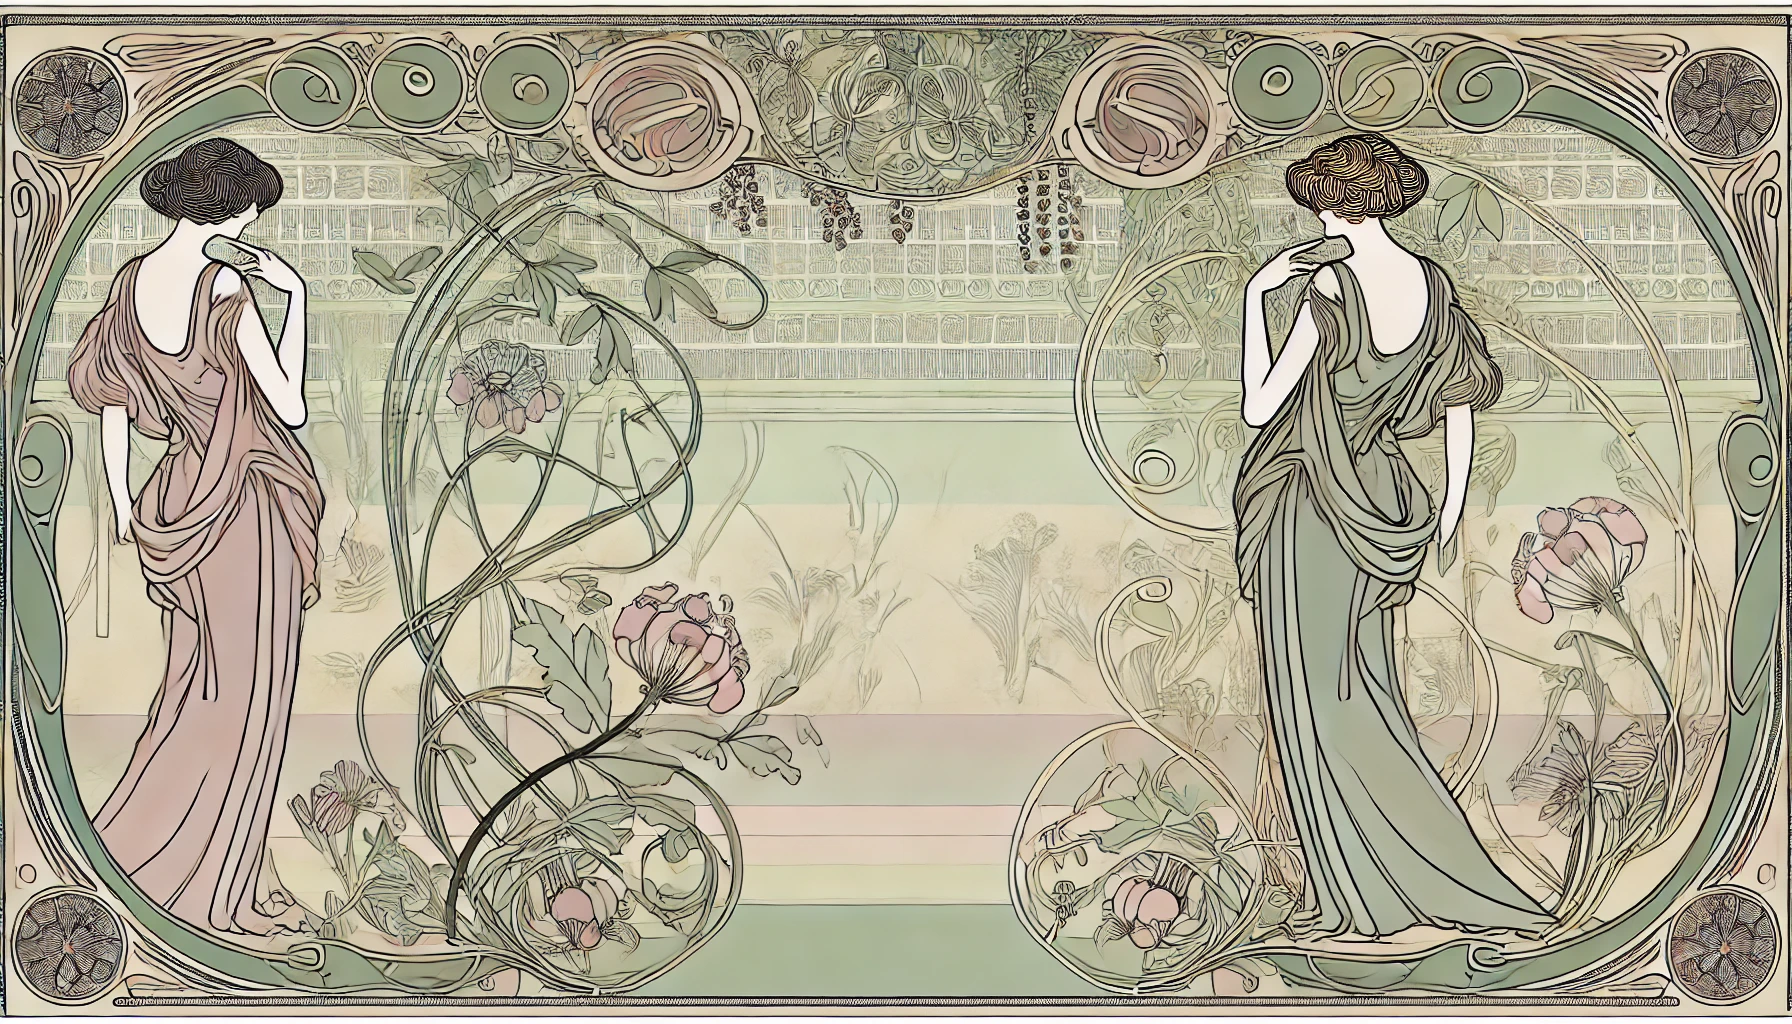
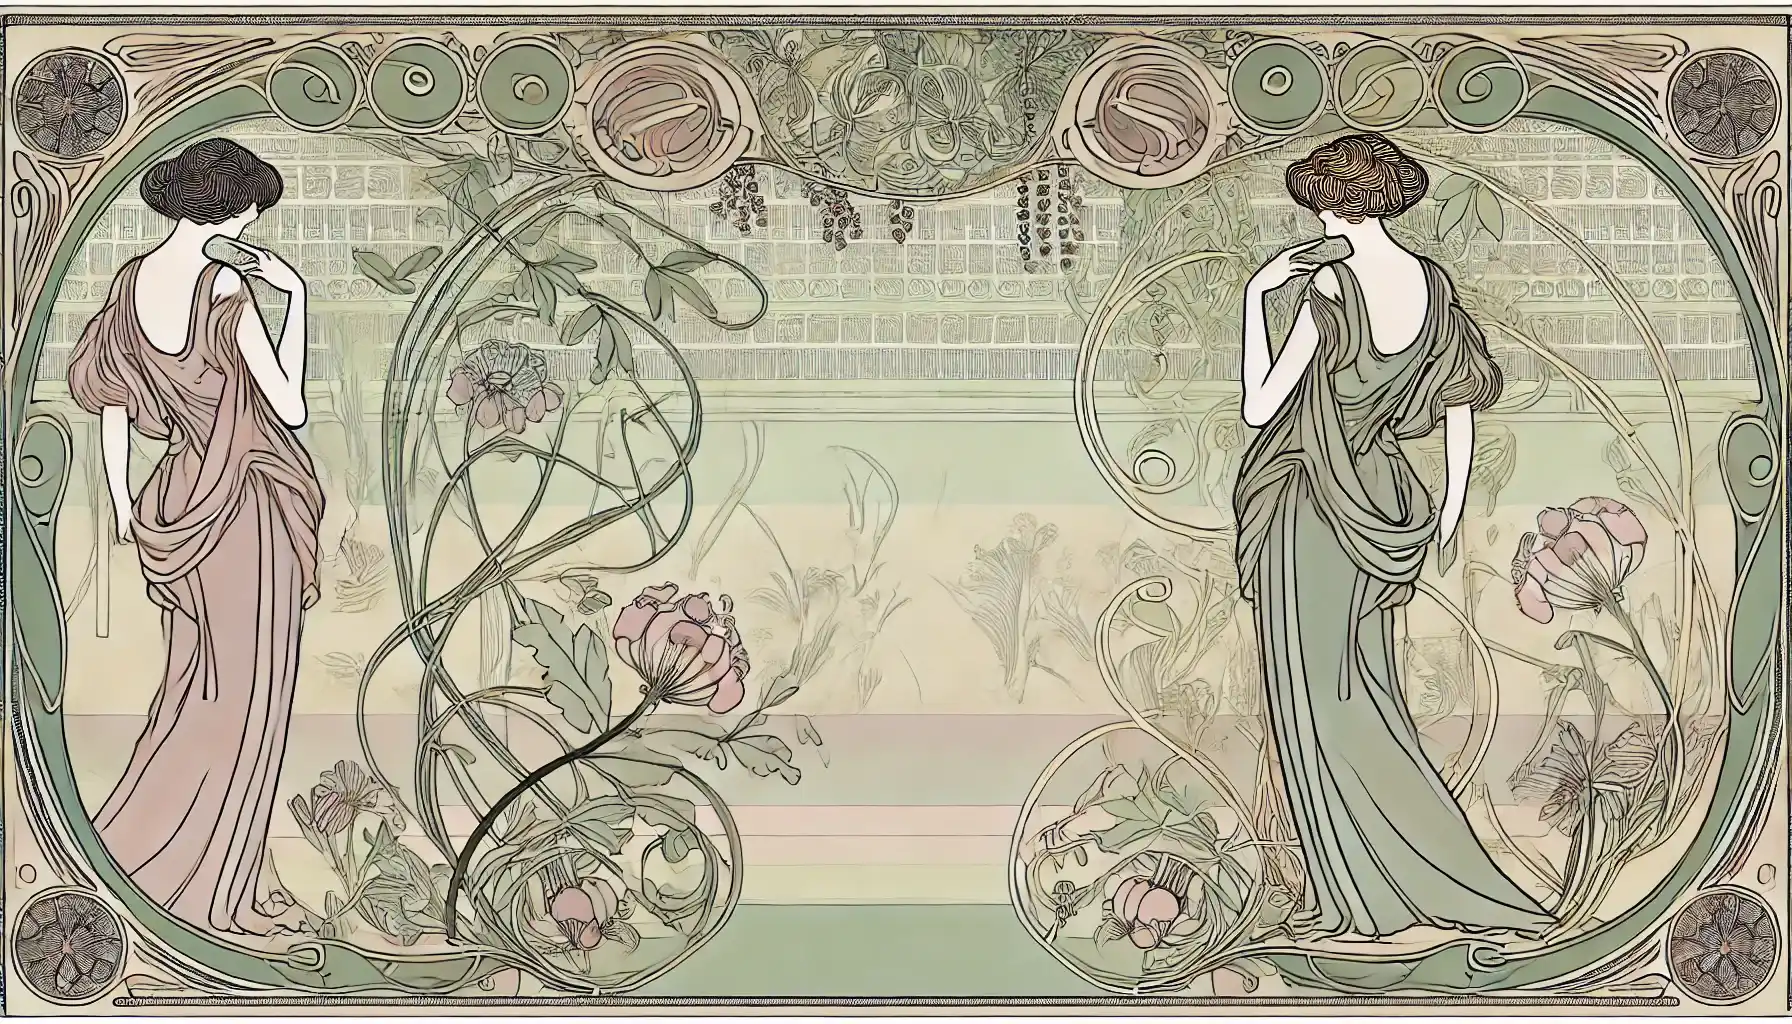
compress images

Changed region(s): [[0.75, 0.1562, 0.7812, 0.1875], [0.0938, 0.0625, 0.125, 0.0938]]

diff --git a/docs/example/style.css b/docs/example/style.css
@@ -26,7 +26,7 @@ img {
   /* カードの余白を指定 */
   padding: 4vh;
   /* カードの背景画像を指定 */
-  background: url("images/background.webp") no-repeat center center/cover;
+  background: url("images/background.jpeg") no-repeat center center/cover;
   /* カードの角丸を指定 */
   border-radius: 1vh;
   /* カードの影を指定 */
